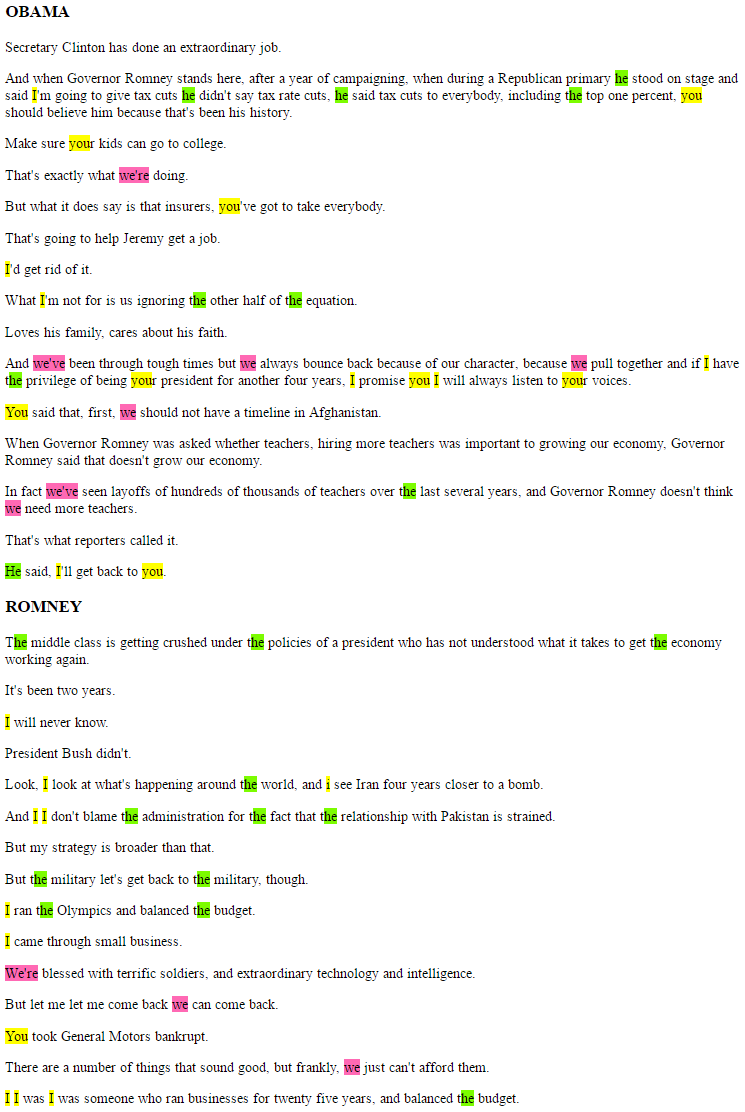
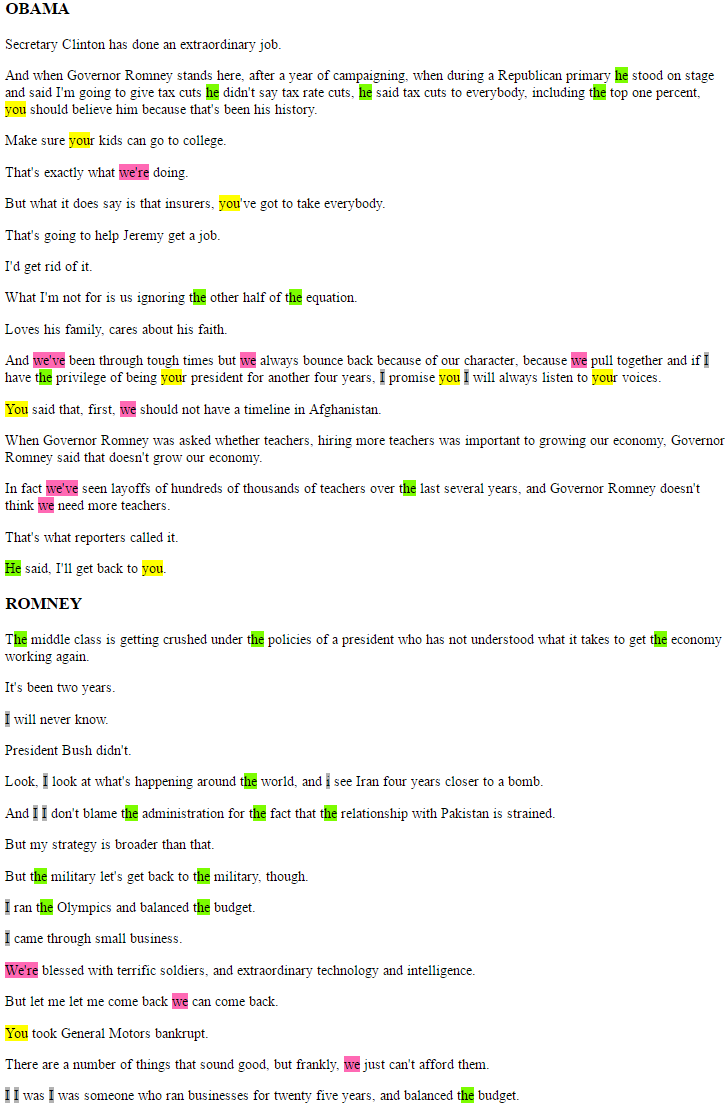
added readme examples

Changed region(s): [[0.0, 0.0, 0.9986, 1.0]]

diff --git a/README.md b/README.md
@@ -97,13 +97,18 @@ Speech Gantt Charts
 Text Hilighting
 ---------------
 
+    hilighter_cols %>%
+        view_cols()
+
+![](tools/figure/unnamed-chunk-41-1.png)
+
 ### Regular Expresion Terms
 
     map1 <- list(
         `#FF69B4` = c('we(\'[a-z]+)?\\b'),
         `#7CFC00` = c('he(\'[a-z]+)?\\b'),
         yellow = 'you',
-        gray70 = '\\bi\\b'
+        gray70 = '\\bi(?=$|\\s)'
     )
 
     set.seed(10)
@@ -118,7 +123,44 @@ Text Hilighting
 
 ### Token Matching
 
+    map2 <- list(
+        `#FF69B4` = c('talk', 'you'),
+        `#7CFC00` = c('he', "he's"),
+        orange = c('we\'re', 'we'),
+        yellow = 'that',
+        gray70 = c('.', '?', '!')
+    )
+
+
+    set.seed(10)
+    presidential_debates_2012 %>%
+        dplyr::filter(person %in% c('ROMNEY', 'OBAMA')) %>%
+        dplyr::group_by(person) %>%
+        dplyr::sample_n(15) %$%
+        hilight_token(dialogue, map2, list(person)) %>%
+        plot()
+
+![](tools/figure/hilight_2.png)
+
 ### Sentence Matching
+
+    map3 <- list(
+        'think',
+        c('he is', "he's", 'you(\'[vr]e)?\\b'),
+        '\\bi\\b'
+    ) %>%
+        map_cols(rev(hilighter_cols))
+        
+
+    set.seed(10)
+    presidential_debates_2012 %>%
+        dplyr::filter(person %in% c('ROMNEY', 'OBAMA')) %>%
+        dplyr::group_by(person) %>%
+        dplyr::sample_n(15) %$%
+        hilight_sentence(dialogue, map3, list(person)) %>%
+        plot()
+
+![](tools/figure/hilight_3.png)
 
 Word Clouds
 -----------
